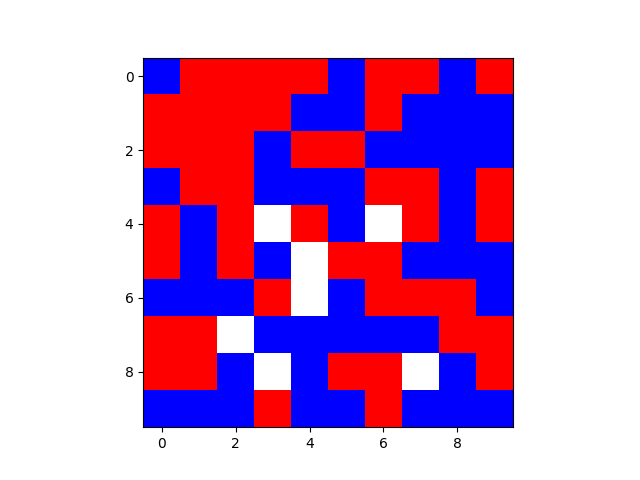
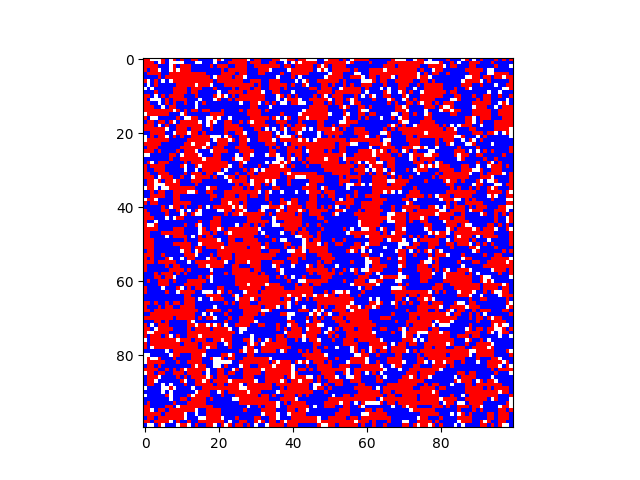
cell verification has been optimized, the ability to enter the number of cell friends and the frequency of matrix saving has been added

Changed region(s): [[0.1875, 0.125, 0.8125, 0.9375]]

diff --git a/main.py b/main.py
@@ -1,9 +1,18 @@
 import numpy as np
 import random
 import matplotlib.pyplot as plt
+import os
 
 n = int(input('Введите размерность матрицы: '))
 iter_k = int(input('Введите число итераций: '))
+number_of_friends = int(input('Сколько друзей нужно клетке для счастья? '))
+iteration_frequency = int(input('Через сколько итераций сохранять матрицу? '))
+
+
+
+def delete_previous_experiment():
+    for f in os.listdir('img_iteration/'):
+        os.remove(os.path.join('img_iteration/', f))
 
 
 # generating an n*n matrix with a random distribution of cells
@@ -13,22 +22,30 @@ def matrix_creation(n):
     return matrix
 
 
+# checks if the cell is unhappy
+def is_unhappy_cell(i, j, matrix):
+    offsets = [(-1, -1), (-1, 0), (-1, 1), (0, -1), (0, 1), (1, -1), (1, 0), (1, 1)]
+    friends_counter = 0
+    for di, dj in offsets:
+        ni, nj = i + di, j + dj
+        if ni in range(len(matrix)) and nj in range(len(matrix)) and matrix[ni][nj] == matrix[i][j]:
+            friends_counter += 1
+    if friends_counter >= number_of_friends:
+        return False
+    else:
+        return True
+
+
 # selection of unhappy and empty cells
 def cell_separation(matrix):
     unhappy_cells = []
     empty_cells = []
-    offsets = [(-1, -1), (-1, 0), (-1, 1), (0, -1), (0, 1), (1, -1), (1, 0), (1, 1)]
     for i, row in enumerate(matrix):
         for j, column in enumerate(row):
-            friends_counter = 0
             if matrix[i][j] == (255, 255, 255):
                 empty_cells.append((i, j))
             else:
-                for di, dj in offsets:
-                    ni, nj = i + di, j + dj
-                    if ni in range(len(matrix)) and nj in range(len(matrix)) and matrix[ni][nj] == matrix[i][j]:
-                        friends_counter += 1
-                if friends_counter < 3:
+                if is_unhappy_cell(i, j, matrix):
                     unhappy_cells.append((i, j))
     return unhappy_cells, empty_cells
 
@@ -50,30 +67,48 @@ def matrix_conversion(matrix):
 def choosing_migrant(matrix, unhappy_cells, empty_cells):
     old_address = random.randint(0, len(unhappy_cells) - 1)
     new_adress = random.randint(0, len(empty_cells) - 1)
-    try:
-        new_a_i, new_a_j = unhappy_cells[new_adress][1], unhappy_cells[new_adress][1]
-        old_a_i, old_a_j = empty_cells[new_adress][1], empty_cells[new_adress][1]
-        matrix[new_a_i][new_a_j], matrix[old_a_i][old_a_j] = matrix[old_a_i][old_a_j], matrix[new_a_i][new_a_j]
-    except:
-        print('Все клетки счастливы!')
-    return matrix
+    new_a_i, new_a_j = empty_cells[new_adress][0], empty_cells[new_adress][1]
+    old_a_i, old_a_j = unhappy_cells[old_address][0], unhappy_cells[old_address][1]
+    matrix[new_a_i][new_a_j], matrix[old_a_i][old_a_j] = matrix[old_a_i][old_a_j], matrix[new_a_i][new_a_j]
+    empty_cells.pop(new_adress)
+    empty_cells.append(unhappy_cells[old_address])
+    unhappy_cells.pop(old_address)
+    if is_unhappy_cell(new_a_i, new_a_j, matrix):
+        unhappy_cells.append((new_a_i, new_a_j))
+    offsets = [(-1, -1), (-1, 0), (-1, 1), (0, -1), (0, 1), (1, -1), (1, 0), (1, 1)]
+    for di, dj in offsets:
+        ni, nj = new_a_i + di, new_a_j + dj
+        if ni in range(len(matrix)) and nj in range(len(matrix)):
+            if is_unhappy_cell(ni, nj, matrix) and matrix[ni][nj] != (255, 255, 255) and not((ni, nj) in unhappy_cells):
+                unhappy_cells.append((ni, nj))
+            elif not(is_unhappy_cell(ni, nj, matrix)) and (ni, nj) in  unhappy_cells:
+                unhappy_cells.remove((ni, nj))
+        oi, oj = old_a_i + di, old_a_j + dj
+        if oi in range(len(matrix)) and oj in range(len(matrix)):
+            if is_unhappy_cell(oi, oj, matrix) and matrix[oi][oj] != (255, 255, 255) and not((oi, oj) in unhappy_cells):
+                unhappy_cells.append((oi, oj))
+            elif not(is_unhappy_cell(oi, oj, matrix)) and (oi, oj) in  unhappy_cells:
+                unhappy_cells.remove((oi, oj))
+    return matrix, unhappy_cells, empty_cells
+
 
 # moving a given number of unlucky cells
 def relocation(matrix, iter_k):
+    plt.imshow(matrix)
+    plt.savefig('img_iteration/matrix_' + str(0) + '.png')
+    unhappy_cells, empty_cells = cell_separation(matrix)
     for k in range(iter_k):
-        unhappy_cells, empty_cells = cell_separation(matrix)
-        matrix = choosing_migrant(matrix, unhappy_cells, empty_cells)
-        if k%1000 == 0:
+        matrix, unhappy_cells, empty_cells = choosing_migrant(matrix, unhappy_cells, empty_cells)
+        if (k + 1) % iteration_frequency == 0:
             plt.imshow(matrix)
-            plt.savefig('img_iteration/matrix_' + str(k) + '.png')
-    return matrix
+            plt.savefig('img_iteration/matrix_' + str(k + 1) + '.png')
+        if len(unhappy_cells) == 0:
+            plt.imshow(matrix)
+            plt.savefig('img_iteration/matrix_' + str(k + 1) + '.png')
+            return print('Все клетки счастливы! \n Остановка на ', k + 1, ' итерации')
 
-
+delete_previous_experiment()
 matrix = matrix_creation(n)
 matrix = matrix.tolist()
 matrix = matrix_conversion(matrix)
-plt.imshow(matrix)
-plt.savefig('img_iteration/matrix_start.png')
 matrix = relocation(matrix, iter_k)
-plt.imshow(matrix)
-plt.savefig('img_iteration/matrix_end.png')
